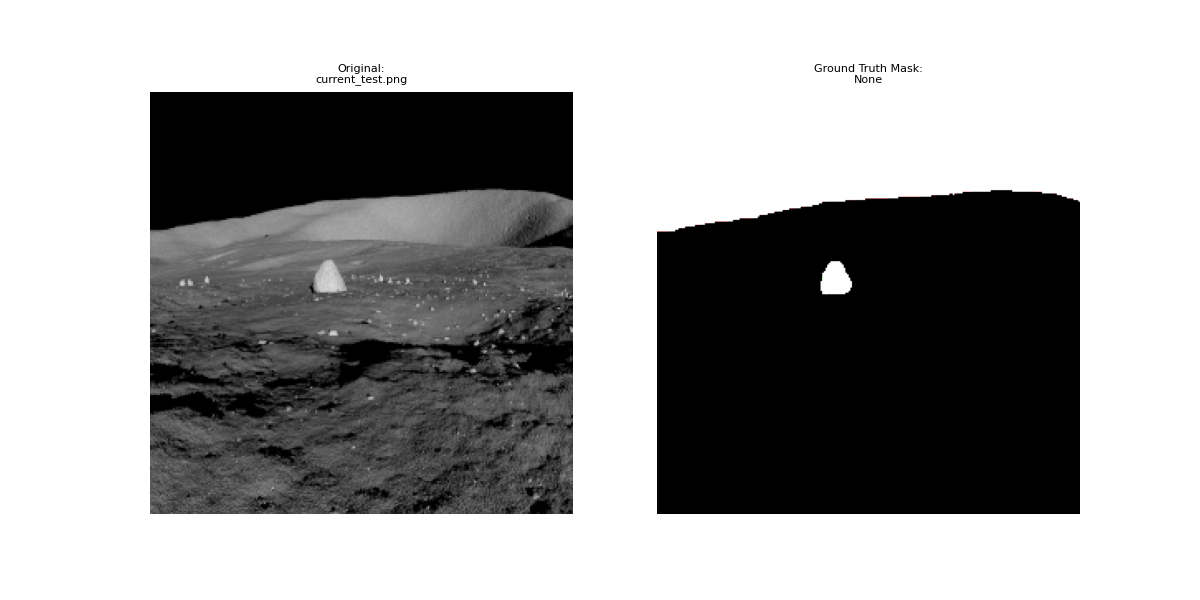
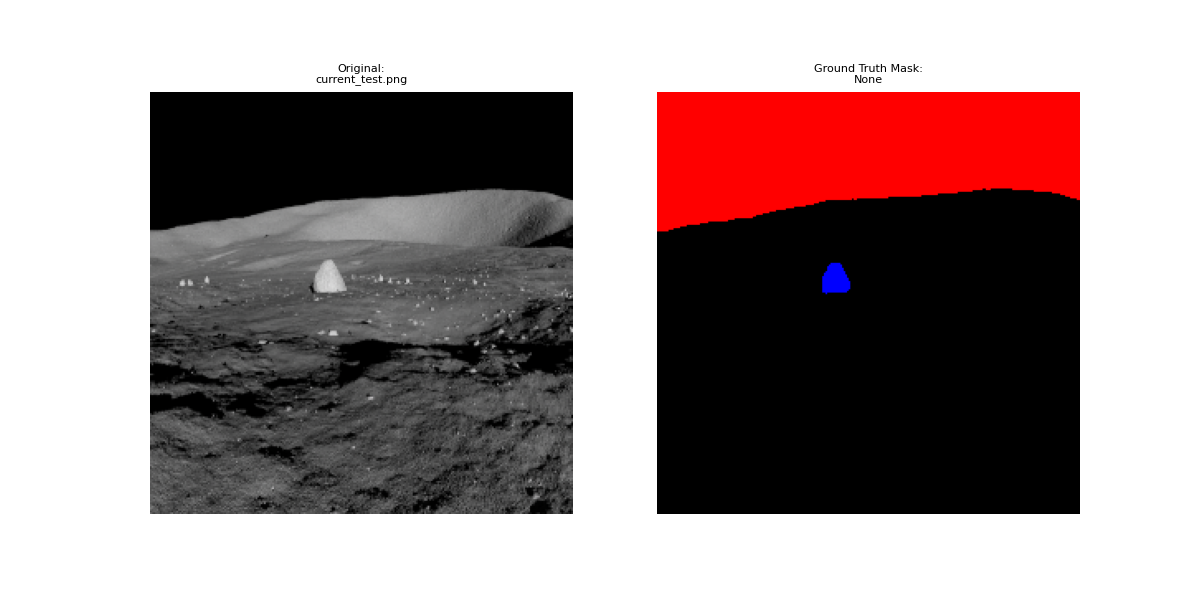
modeling debug

Changed region(s): [[0.5242, 0.15, 0.925, 0.39], [0.6783, 0.42, 0.7092, 0.51]]

diff --git a/Code/modeling.py b/Code/modeling.py
@@ -52,14 +52,17 @@ val_data_loader = DataLoader(val_data, batch_size=batch_size, shuffle=True)
 test_data = CustomDataLoader(img_folder=test_img_folder, mask_folder=test_mask_folder, batch_size=batch_size, imsize=imsize, num_classes=num_classes)
 test_data_loader = DataLoader(test_data, batch_size=batch_size, shuffle=True)
 
+'''
+Review and Check Preprocessing and DataLoader outputs are correctly performed
+'''
 # tuples of 2 tensor arrays
-# Image element is tensor array of size [imsize, imsize, RGB channel]
-# Mask element is tensor array of size [imsize, imsize, class channel]
+# Image element is tensor array of size [RGB channel, imsize, imsize]
+# Mask element is tensor array of size [class channel, imsize, imsize]
 sample_data = next(iter(train_data))
 
 # list of len 2 (1 for image, 1 for mask). 
-# Image element in list is torch tensor of size [batch size, imsize, imsize, RGB channel]
-# Mask element in list is torch tensor of size [batch size, imsize, imsize, class channel]
+# Image element in list is torch tensor of size [batch size, RGB channel, imsize, imsize]
+# Mask element in list is torch tensor of size [batch size, class channel, imsize, imsize]
 batch_data = next(iter(train_data_loader))
 
 img_processor = ImageProcessor()
@@ -70,6 +73,7 @@ print(sample_data[1].shape)
 print(batch_data[0].shape)
 print(batch_data[1].shape)
 
+# Reorder images for plotting
 sample_image = sample_data[0].permute(1,2,0)
 sample_mask = sample_data[1].permute(1,2,0)
 sample_image = sample_image.numpy()
@@ -80,88 +84,89 @@ sample_mask = img_processor.rescale(sample_mask)
 sample_mask_decoded = img_processor.reverse_one_hot_encode(sample_mask)
 sample_mask_decoded = img_processor.rescale(sample_mask_decoded)
 
+# Plot images to ensure correct processing steps
 check_plotter = Plotter()
-check_plotter.peek_images(sample_images=sample_image,sample_masks=sample_mask,file_name='current_test.png')
+check_plotter.peek_images(sample_images=sample_image,sample_masks=sample_mask_decoded,file_name='current_test.png')
 check_plotter.sanity_check(train_img_folder+'/' , train_mask_folder+'/')
 
-# NEED TO DO AN IMAGE PLOT CHECK TO SEE IF EVERYTHING LOOKS GOOD OUT OF CUSTOM DATALOADER
-    # mask is black and white need to change to RGB or check channels which one is first, and check 
+print(sample_mask_decoded.shape)
+
 # NEED TO CHECK PREPROCESSING STEPS - WHAT IS THE SEQUENCE OF STEPS
 # Check endcoding of images in each step
-# Check order of tensors channels first
+# Check max and min values for img and masks before processing
 
-'''
-Load Model(s)
-'''
-device = torch.device("cuda:0" if torch.cuda.is_available() else "cpu")
-print('Using device..', device)
-torch.manual_seed(42)
-np.random.seed(42)
-torch.backends.cudnn.deterministic = True
-torch.backends.cudnn.benchmark = False
+# '''
+# Load Model(s)
+# '''
+# device = torch.device("cuda:0" if torch.cuda.is_available() else "cpu")
+# print('Using device..', device)
+# torch.manual_seed(42)
+# np.random.seed(42)
+# torch.backends.cudnn.deterministic = True
+# torch.backends.cudnn.benchmark = False
 
-model = UNet_scratch().to(device)
-
-
-'''
-Train
-'''
-n_epochs = 10
-lossBCE = torch.nn.BCEWithLogitsLoss()
-opt = AdamW(model.parameters(), lr = 0.01)
-
-num_training_steps = n_epochs * len(train_data_loader)
-print(num_training_steps, 'steps!!')
-lr_scheduler = get_scheduler(name="linear", optimizer=opt, num_warmup_steps=0, num_training_steps=num_training_steps)
-progress_bar = tqdm(range(num_training_steps))
-total_t0 = time.time()
-sample_every = 100
+# model = UNet_scratch().to(device)
 
 
-print('training')
+# '''
+# Train
+# '''
+# n_epochs = 10
+# lossBCE = torch.nn.BCEWithLogitsLoss()
+# opt = AdamW(model.parameters(), lr = 0.01)
 
-gc.collect()
-torch.cuda.empty_cache()
-
-for e in range(n_epochs):
-    t0 = time.time()
-    model.train()
-
-    # for i in range(batch_data[0].shape[0]):
-    for step, batch in enumerate(train_data_loader):
-        print(batch[0].shape)
-        print(batch[1].shape)
-        x_train, y_train = batch[0].to(device), batch[1].to(device)
-        model.zero_grad() 
-        pred = model(x_train)
-        print(pred.shape)
-        loss = lossBCE(pred, y_train)
-
-        print(pred, loss)
-
-        # opt.zero_grad()
-        loss.backward()
-        opt.step()
-        lr_scheduler.step()
-        progress_bar.update(1)
-
-        print(f'testing functionality: loss is sorta {loss}')
-
-    # Measure how long this epoch took.
-    print("")
-    training_time = str(dt.timedelta(seconds=int(round((time.time() - t0)))))
-    print(f"Training epoch took: {training_time}")
-
-'''
-Validation Loop
-'''
+# num_training_steps = n_epochs * len(train_data_loader)
+# print(num_training_steps, 'steps!!')
+# lr_scheduler = get_scheduler(name="linear", optimizer=opt, num_warmup_steps=0, num_training_steps=num_training_steps)
+# progress_bar = tqdm(range(num_training_steps))
+# total_t0 = time.time()
+# sample_every = 100
 
 
-'''
-Save Model Weights
-'''
+# print('training')
+
+# gc.collect()
+# torch.cuda.empty_cache()
+
+# for e in range(n_epochs):
+#     t0 = time.time()
+#     model.train()
+
+#     # for i in range(batch_data[0].shape[0]):
+#     for step, batch in enumerate(train_data_loader):
+#         print(batch[0].shape)
+#         print(batch[1].shape)
+#         x_train, y_train = batch[0].to(device), batch[1].to(device)
+#         model.zero_grad() 
+#         pred = model(x_train)
+#         print(pred.shape)
+#         loss = lossBCE(pred, y_train)
+
+#         print(pred, loss)
+
+#         # opt.zero_grad()
+#         loss.backward()
+#         opt.step()
+#         lr_scheduler.step()
+#         progress_bar.update(1)
+
+#         print(f'testing functionality: loss is sorta {loss}')
+
+#     # Measure how long this epoch took.
+#     print("")
+#     training_time = str(dt.timedelta(seconds=int(round((time.time() - t0)))))
+#     print(f"Training epoch took: {training_time}")
+
+# '''
+# Validation Loop
+# '''
 
 
-'''
-Evaluate Model(s)
-'''
+# '''
+# Save Model Weights
+# '''
+
+
+# '''
+# Evaluate Model(s) on Test Data
+# '''

diff --git a/Code/LunarModules/CustomDataLoader.py b/Code/LunarModules/CustomDataLoader.py
@@ -100,60 +100,3 @@ class CustomDataLoader:
         
         # returns as a tuple of tensors
         return img_tensor, mask_tensor
-
-    # def data_generator(self, img_folder, mask_folder, batch_size, imsize, num_classes, first_n=None):
-    #     """
-    #     Function to create data generator object of images and masks.
-
-    #     Parameters:
-    #         img_folder: directory path to images folder
-    #         mask_folder: directory path to masks folder
-    #         batch_size: batch size to use 
-    #         imsize: image height and width and n channels (image height, image width, n of channels)
-    #         first_n: optional, set to some int to choose only first n data points
-
-    #     Yields:
-    #         (img, mask): tuple of image and mask in np arrays of shape (batch size, image height, image width, n of channels)
-    #     """
-    #     element_counter = 0 
-        
-    #     images_list = os.listdir(img_folder) #List of training images
-    #     masks_list = os.listdir(mask_folder) #List of Mask images
-
-    #     if first_n is None:
-    #         images_list = sorted(images_list)
-    #         masks_list= sorted(masks_list)
-    #     else:
-    #         images_list = sorted(images_list)[:first_n]
-    #         masks_list= sorted(masks_list)[:first_n]
-        
-    #     while (True):
-    #         channel_num = 3
-    #         img = np.zeros((batch_size, imsize, imsize, channel_num)).astype('float')
-    #         mask = np.zeros((batch_size, imsize, imsize, num_classes)).astype('int')
-
-    #         for i in range(element_counter, element_counter+batch_size):
-
-    #             # Read an image from folder and resize
-    #             train_img = plt.imread(img_folder+'/'+images_list[i])
-    #             train_img =  cv2.resize(train_img, (imsize, imsize))
-
-    #             # Read corresponding mask from folder and resize
-    #             train_mask = plt.imread(mask_folder+'/'+masks_list[i])
-    #             train_mask = cv2.resize(train_mask, (imsize, imsize))
-
-    #             #Add pre-processing steps
-    #             train_img = ImageProcessor.preprocessor_images(train_img)
-    #             train_mask = ImageProcessor.preprocessor_masks(train_mask)
-                
-    #             #add to array - img[0], img[1], and so on to created np framework
-    #             mask[i-element_counter] = train_mask
-    #             img[i-element_counter] = train_img 
-                
-    #         element_counter+=batch_size
-
-    #         # If we've reached the end of the batch, set element_counter back to 0 to start next batch
-    #         if(element_counter+batch_size>=len(images_list)):
-    #             element_counter=0
-            
-    #         yield (img, mask)
